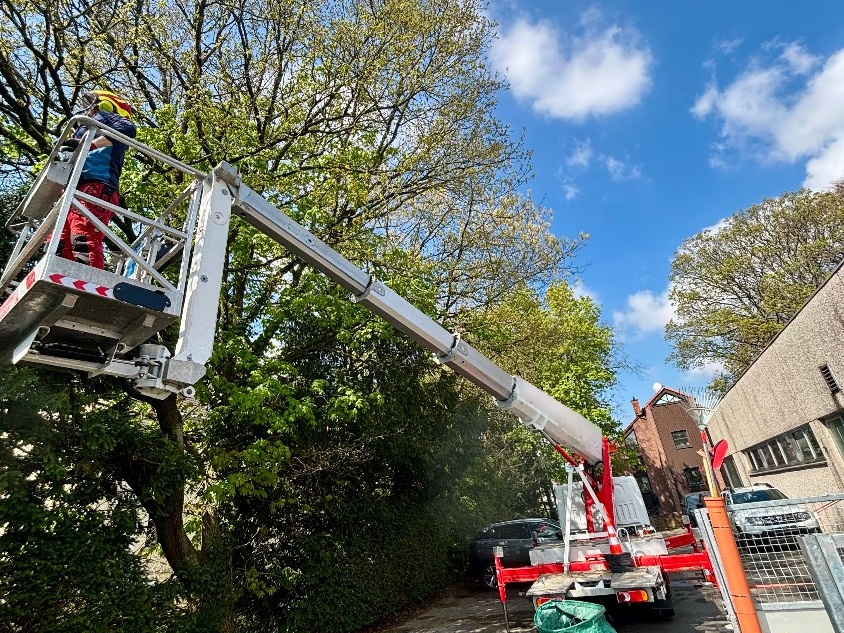
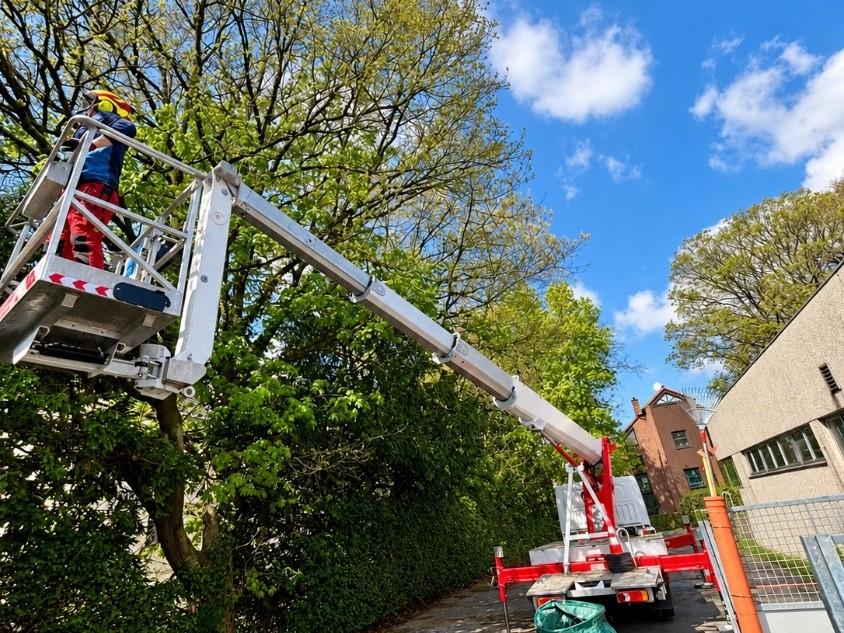
Neue Seite Kosten und neues Foto für Baumpflege
- Seite /kosten/: Preisfaktoren, „Gut zu wissen“ zum Pauschalpreis, Kontaktbalken,
  Ablauf und die Fragen zu Kosten und Abrechnung. Keine Preise.
- Kosten im Hauptmenü und im Fuß, Link von den Kostenabschnitten der Leistungsseiten.
- Sprungmarken als eigene Komponente, auch auf der FAQ-Seite genutzt.
- Kopfleiste: Abstände für sechs Menüpunkte, Knopf bleibt einzeilig.
- Weiterleitungen: /preise/ und Kosten-Schlagwörter zeigen auf /kosten/.
- Baumpflege: neues Foto, Vermietungs-Schriftzug am Ausleger entfernt.

Claude-Session: https://claude.ai/code/session_01XYfuFgBnXiuCWwsguYdwE2

diff --git a/src/config/navigation.ts b/src/config/navigation.ts
@@ -1,6 +1,7 @@
 // Hauptmenü und Links im Fuß. Reihenfolge hier ändern, dann überall gleich.
 export const hauptmenue = [
   { titel: 'Leistungen', href: '/leistungen/' },
+  { titel: 'Kosten', href: '/kosten/' },
   { titel: 'Gewerbe', href: '/gewerbe-hausverwaltungen/' },
   { titel: 'Einsatzgebiet', href: '/einsatzgebiet/' },
   { titel: 'Referenzen', href: '/referenzen/' },
@@ -12,6 +13,7 @@ export const fussmenue = [
   { titel: 'Einsatzgebiet', href: '/einsatzgebiet/' },
   { titel: 'Referenzen', href: '/referenzen/' },
   { titel: 'Über uns', href: '/ueber-uns/' },
+  { titel: 'Kosten', href: '/kosten/' },
   { titel: 'Häufige Fragen', href: '/faq/' },
   { titel: 'Kontakt und Anfrage', href: '/kontakt/' },
 ] as const;

diff --git a/src/content.config.ts b/src/content.config.ts
@@ -109,6 +109,8 @@ const seiten = defineCollection({
     h1: z.string(),
     einleitung: z.string(),
     karten: z.array(karte).default([]),
+    // Kurze Hinweise mit Haken, z. B. „Gut zu wissen“ auf der Seite Kosten
+    punkte: z.array(karte).default([]),
   }),
 });
 

diff --git a/docs/02-weiterleitungen.md b/docs/02-weiterleitungen.md
@@ -27,7 +27,7 @@ Spalte „Beleg“:
 | `/` | `/` | gefunden in Suche | Startseite |
 | `/kontakt/` | `/kontakt/` | gefunden in Suche | gleiches Thema |
 | `/dienstleistungen/` | `/leistungen/` | gefunden in Suche | Sammelseite aller alten Leistungen, daher auf die Übersicht statt auf eine einzelne Leistung |
-| `/preise/` | `/faq/` | gefunden in Suche | Es gibt keine Preisseite mehr. Die FAQ „Kosten und Abrechnung“ erklärt die Preisfaktoren allgemein, die Leistungsseiten im Einzelnen. |
+| `/preise/` | `/kosten/` | gefunden in Suche | Die Seite Kosten erklärt die Preisfaktoren ohne Preise zu nennen, die Leistungsseiten im Einzelnen. |
 | `/impressum/` | `/impressum/` | Seite vorhanden, Pfad vermutet | Regel greift für jede Adresse mit „impressum“ |
 | `/datenschutz/`, `/datenschutzerklaerung/`, `/privacy-policy/` | `/datenschutz/` | Seite vorhanden, Pfad vermutet | Regel greift für jede Adresse mit „datenschutz“, „privacy“, „dsgvo“ oder „cookie“ |
 | `/index.php`, `/index.html` | `/` | typischer WordPress-Pfad vermutet | |
@@ -56,7 +56,7 @@ Die erste passende Regel gewinnt. Steht in einer Adresse eine Leistung und ein O
 | garten, beet, unkraut, landschaft, laub, galabau | `/leistungen/landschaftspflege-heckenschnitt/` (Abschnitt kleine Gartenprojekte) |
 | leistung, service, angebot | `/leistungen/` |
 | beratung, besichtigung, termin | `/kontakt/` |
-| preis, kosten, tarif | `/faq/` |
+| preis, kosten, tarif | `/kosten/` |
 | bornheim und Ortsteile (Brenig, Dersdorf, Hemmerich, Hersel, Kardorf, Merten, Roisdorf, Rösberg, Sechtem, Uedorf, Walberberg, Waldorf, Widdig) | `/einsatzgebiet/bornheim/` |
 | alfter, gielsdorf, impekoven, oedekoven, volmershoven, heidgen, witterschlick | `/einsatzgebiet/alfter/` |
 | bonn | `/einsatzgebiet/bonn/` |
@@ -208,7 +208,7 @@ RewriteRule (^|/)(feed|rss|rss2|atom|rdf)(/.*)?$ https://baumpflege-happe.de/? [
 RewriteRule ^(index\.(php|html?))?$ https://baumpflege-happe.de/? [R=301,L,NC]
 RewriteRule ^kontakt/?$ https://baumpflege-happe.de/kontakt/? [R=301,L,NC]
 RewriteRule ^dienstleistungen/?$ https://baumpflege-happe.de/leistungen/? [R=301,L,NC]
-RewriteRule ^preise/?$ https://baumpflege-happe.de/faq/? [R=301,L,NC]
+RewriteRule ^preise/?$ https://baumpflege-happe.de/kosten/? [R=301,L,NC]
 # Hier weitere exakt bekannte alte Adressen eintragen (vor den Schlagwort-Regeln), Muster:
 # RewriteRule ^alter-pfad/?$ https://baumpflege-happe.de/neuer-pfad/? [R=301,L,NC]
 
@@ -244,7 +244,7 @@ RewriteRule (leistung|service|angebot) https://baumpflege-happe.de/leistungen/? 
 RewriteRule (beratung|besichtigung|termin) https://baumpflege-happe.de/kontakt/? [R=301,L,NC]
 
 # --- 8. Kosten (nach den Leistungen, damit z. B. "baumfaellung-kosten" zur Leistung führt)
-RewriteRule (preis|kosten|tarif) https://baumpflege-happe.de/faq/? [R=301,L,NC]
+RewriteRule (preis|kosten|tarif) https://baumpflege-happe.de/kosten/? [R=301,L,NC]
 
 # --- 9. Orte (vermutet) ---------------------------------------------------------
 RewriteRule (bornheim|brenig|dersdorf|merten|roisdorf|sechtem|hersel|walberberg|waldorf|kardorf|hemmerich|r.{1,2}sberg|widdig|uedorf) https://baumpflege-happe.de/einsatzgebiet/bornheim/? [R=301,L,NC]
@@ -283,7 +283,7 @@ curl -sI http://gartenheldservice.com/preise/ | grep -iE "^(HTTP|location)"
 curl -sIL -o /dev/null -w '%{num_redirects} %{http_code} %{url_effective}\n' https://www.gartenheldservice.com/dienstleistungen/
 ```
 
-Erwartet: `301` mit `location: https://baumpflege-happe.de/faq/` bzw. `1 200 https://baumpflege-happe.de/leistungen/`.
+Erwartet: `301` mit `location: https://baumpflege-happe.de/kosten/` bzw. `1 200 https://baumpflege-happe.de/leistungen/`.
 
 Ohne Terminal: Online-Statuscode-Prüfer (z. B. httpstatus.io) oder Screaming Frog im Listenmodus (*Mode -> List*, Adressen einfügen, Spalte „Redirect URL“).
 

diff --git a/src/inhalte/seiten/kosten.md b/src/inhalte/seiten/kosten.md
@@ -1,0 +1,31 @@
+---
+seitentitel: "Kosten für Baumpflege und Baumfällung | Baumpflege Happe"
+beschreibung: "Was kostet eine Baumfällung oder ein Baumschnitt? Worauf es beim Preis ankommt und wie Sie Ihr schriftliches Angebot mit Pauschalpreis erhalten."
+kicker: Kosten
+h1: "Was kosten Baumarbeiten?"
+einleitung: "Jeder Baum und jedes Grundstück ist anders. Deshalb finden Sie hier keine Preisliste, sondern einen Überblick, worauf es beim Preis ankommt. Ihren Preis erhalten Sie vor Beginn der Arbeiten schriftlich, als Pauschalpreis."
+# Preisfaktoren, in dieser Reihenfolge nummeriert
+karten:
+  - titel: "Größe und Zustand"
+    text: "Höhe, Krone und Stamm bestimmen, wie viel Arbeit anfällt. Ist ein Baum geschwächt oder voller Totholz, braucht die Arbeit mehr Vorsicht und Zeit."
+  - titel: "Lage auf dem Grundstück"
+    text: "Steht der Baum frei, geht es oft schneller. Stehen Haus, Leitungen, Zaun oder Nachbargrundstück nah, tragen wir ihn Stück für Stück ab."
+  - titel: "Zugang und Zufahrt"
+    text: "Kommen Fahrzeug, Hubarbeitsbühne und Häcksler nah an den Baum, oder muss das Schnittgut über längere Wege getragen werden?"
+  - titel: "Arbeitstechnik"
+    text: "Je nach Baum und Platz arbeiten wir mit der Hubarbeitsbühne oder am Seil. Wir wählen die Technik, die zu Ihrem Baum und Grundstück passt."
+  - titel: "Schnittgut und Entsorgung"
+    text: "Die Menge an Ästen und Holz bestimmt den Aufwand für Häckseln, Abtransport und Entsorgung. Möchten Sie Holz behalten, berücksichtigen wir das im Angebot."
+  - titel: "Zusätzliche Arbeiten"
+    text: "Zum Beispiel das Entfernen des Wurzelstocks. Muss für die Arbeit eine Straße oder ein Gehweg genutzt werden, kann außerdem eine Genehmigung nötig sein."
+# Abschnitt „Gut zu wissen“
+punkte:
+  - titel: "Aufräumen inklusive"
+    text: "Aufräumen und Entsorgung gehören bei uns zur Arbeit dazu und sind im Angebot enthalten."
+  - titel: "Mehraufwand nur nach Absprache"
+    text: "Zeigt sich bei der Arbeit ein Mehraufwand, der vorher nicht erkennbar war, sprechen wir Sie an, bevor wir weitermachen."
+  - titel: "Arbeiten bündeln"
+    text: "Mehrere Arbeiten an einem Termin sparen zusätzliche Anfahrten und Rüstzeiten. Sagen Sie uns, was sonst noch im Garten zu tun ist."
+  - titel: "Gute Fotos helfen"
+    text: "Fotografieren Sie den ganzen Baum, den Stamm und die Zufahrt. Je besser die Fotos, desto genauer wird die Ersteinschätzung."
+---

diff --git a/docs/01-technik-und-deployment.md b/docs/01-technik-und-deployment.md
@@ -122,7 +122,7 @@ Alles, was du später selbst änderst, liegt in drei Bereichen: `src/inhalte/`, 
 | FAQ | `src/inhalte/faq/*.md` | Frage (endet mit „?“), Thema, zugehörige Leistungen, auf FAQ-Seite ja/nein, Reihenfolge; Antwort als Fließtext | FAQ-Seite und verteilt auf die Leistungsseiten |
 | Bewertungen | `src/inhalte/bewertungen/*.yaml` | Name gekürzt (Vorname und Anfangsbuchstabe), Sterne, Datum, Text, `veroeffentlichen` | Startseite |
 | Qualifikationen | `src/inhalte/qualifikationen/*.yaml` | Titel, Erklärung in einem Satz für Laien, `vorhanden`, Reihenfolge | Über uns, Schalter für Leistungen |
-| Seiten | `src/inhalte/seiten/*.md` | Seitentitel, Description, Oberbegriff, H1, Einleitung, Karten (Nutzen, Grundsätze) | Leistungsübersicht, Über uns, Gewerbe, Einsatzgebiet, Referenzen, FAQ, Kontakt, Datenschutz |
+| Seiten | `src/inhalte/seiten/*.md` | Seitentitel, Description, Oberbegriff, H1, Einleitung, Karten (Nutzen, Grundsätze, Preisfaktoren), Punkte („Gut zu wissen“) | Leistungsübersicht, Über uns, Gewerbe, Einsatzgebiet, Referenzen, FAQ, Kosten, Kontakt, Datenschutz |
 
 Grundsätze:
 

diff --git a/src/inhalte/faq/kosten-preisfaktoren.md b/src/inhalte/faq/kosten-preisfaktoren.md
@@ -14,4 +14,4 @@ Jeder Baum und jedes Grundstück ist anders. Deshalb stehen auf der Website kein
 - **Zusatzarbeiten:** zum Beispiel das Entfernen des Wurzelstocks
 - **Bündelung:** Mehrere Arbeiten an einem Termin sparen zusätzliche Anfahrten und Rüstzeiten
 
-Die wichtigsten Preisfaktoren der einzelnen Arbeiten finden Sie zusätzlich auf den jeweiligen Leistungsseiten. Anhand Ihrer Fotos erhalten Sie eine kostenlose Ersteinschätzung und danach Ihr Angebot mit Pauschalpreis.
+Mehr dazu lesen Sie auf unserer Seite [Kosten](/kosten/), die wichtigsten Preisfaktoren der einzelnen Arbeiten zusätzlich auf den jeweiligen Leistungsseiten. Anhand Ihrer Fotos erhalten Sie eine kostenlose Ersteinschätzung und danach Ihr Angebot mit Pauschalpreis.
